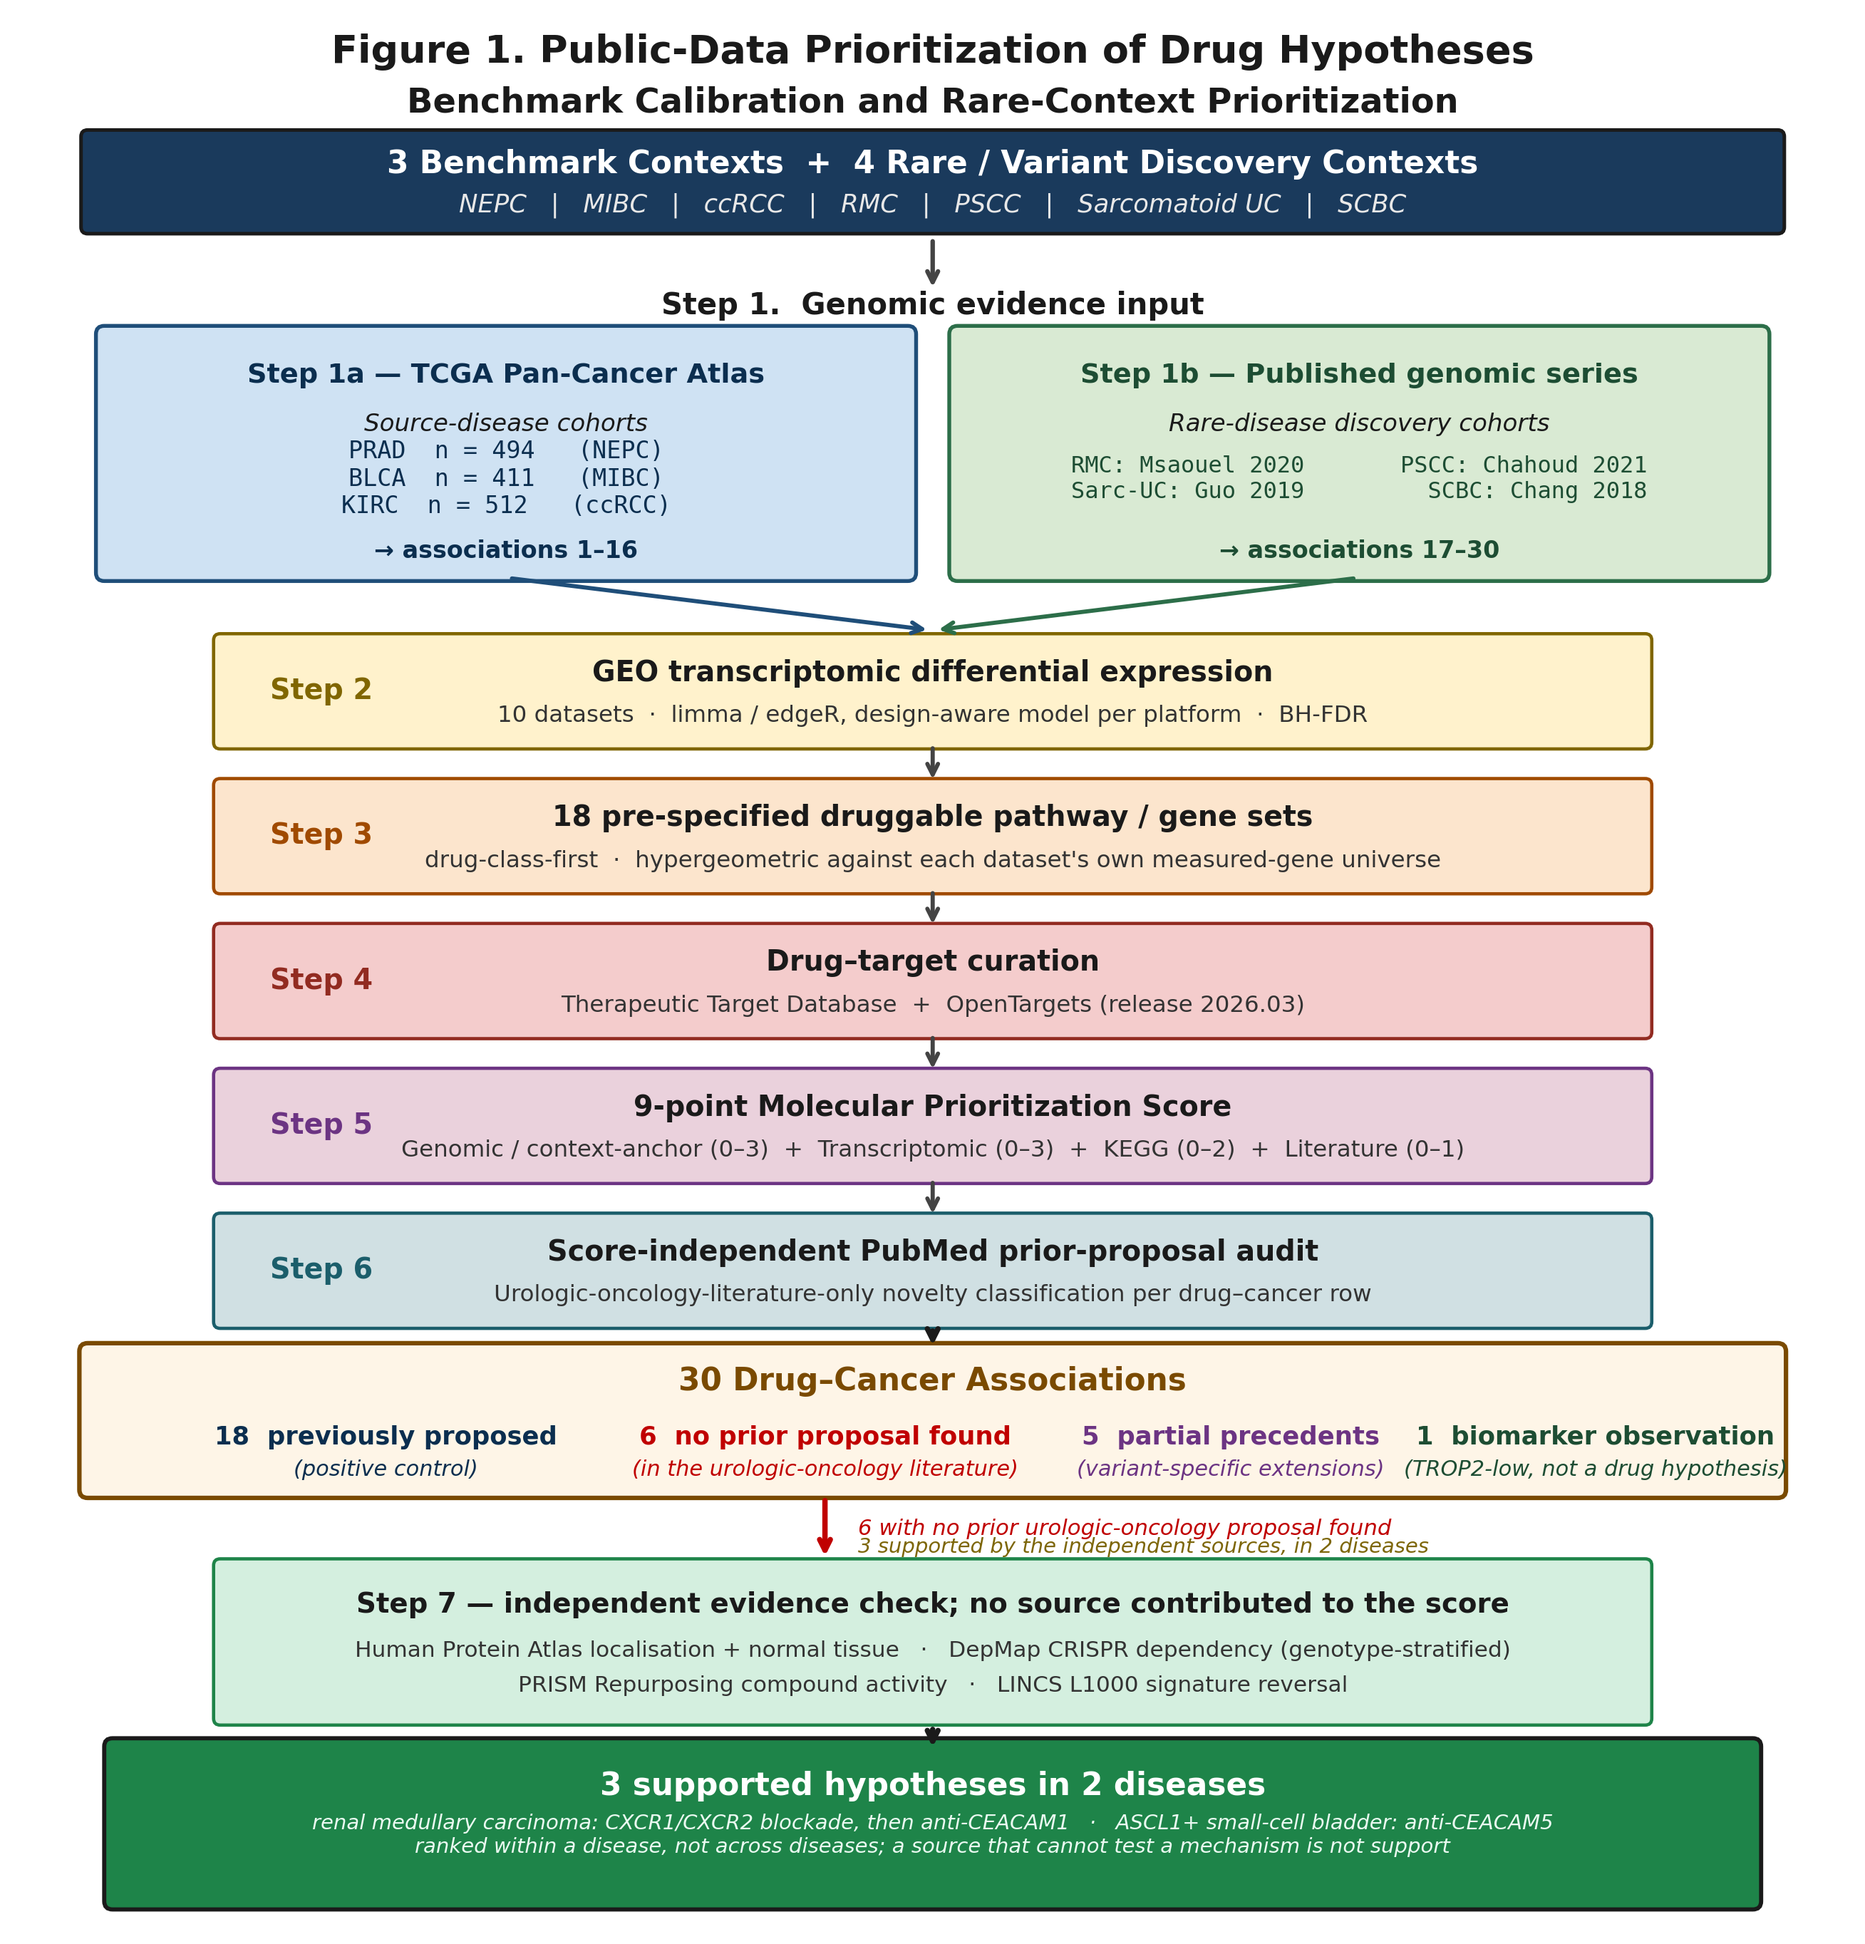
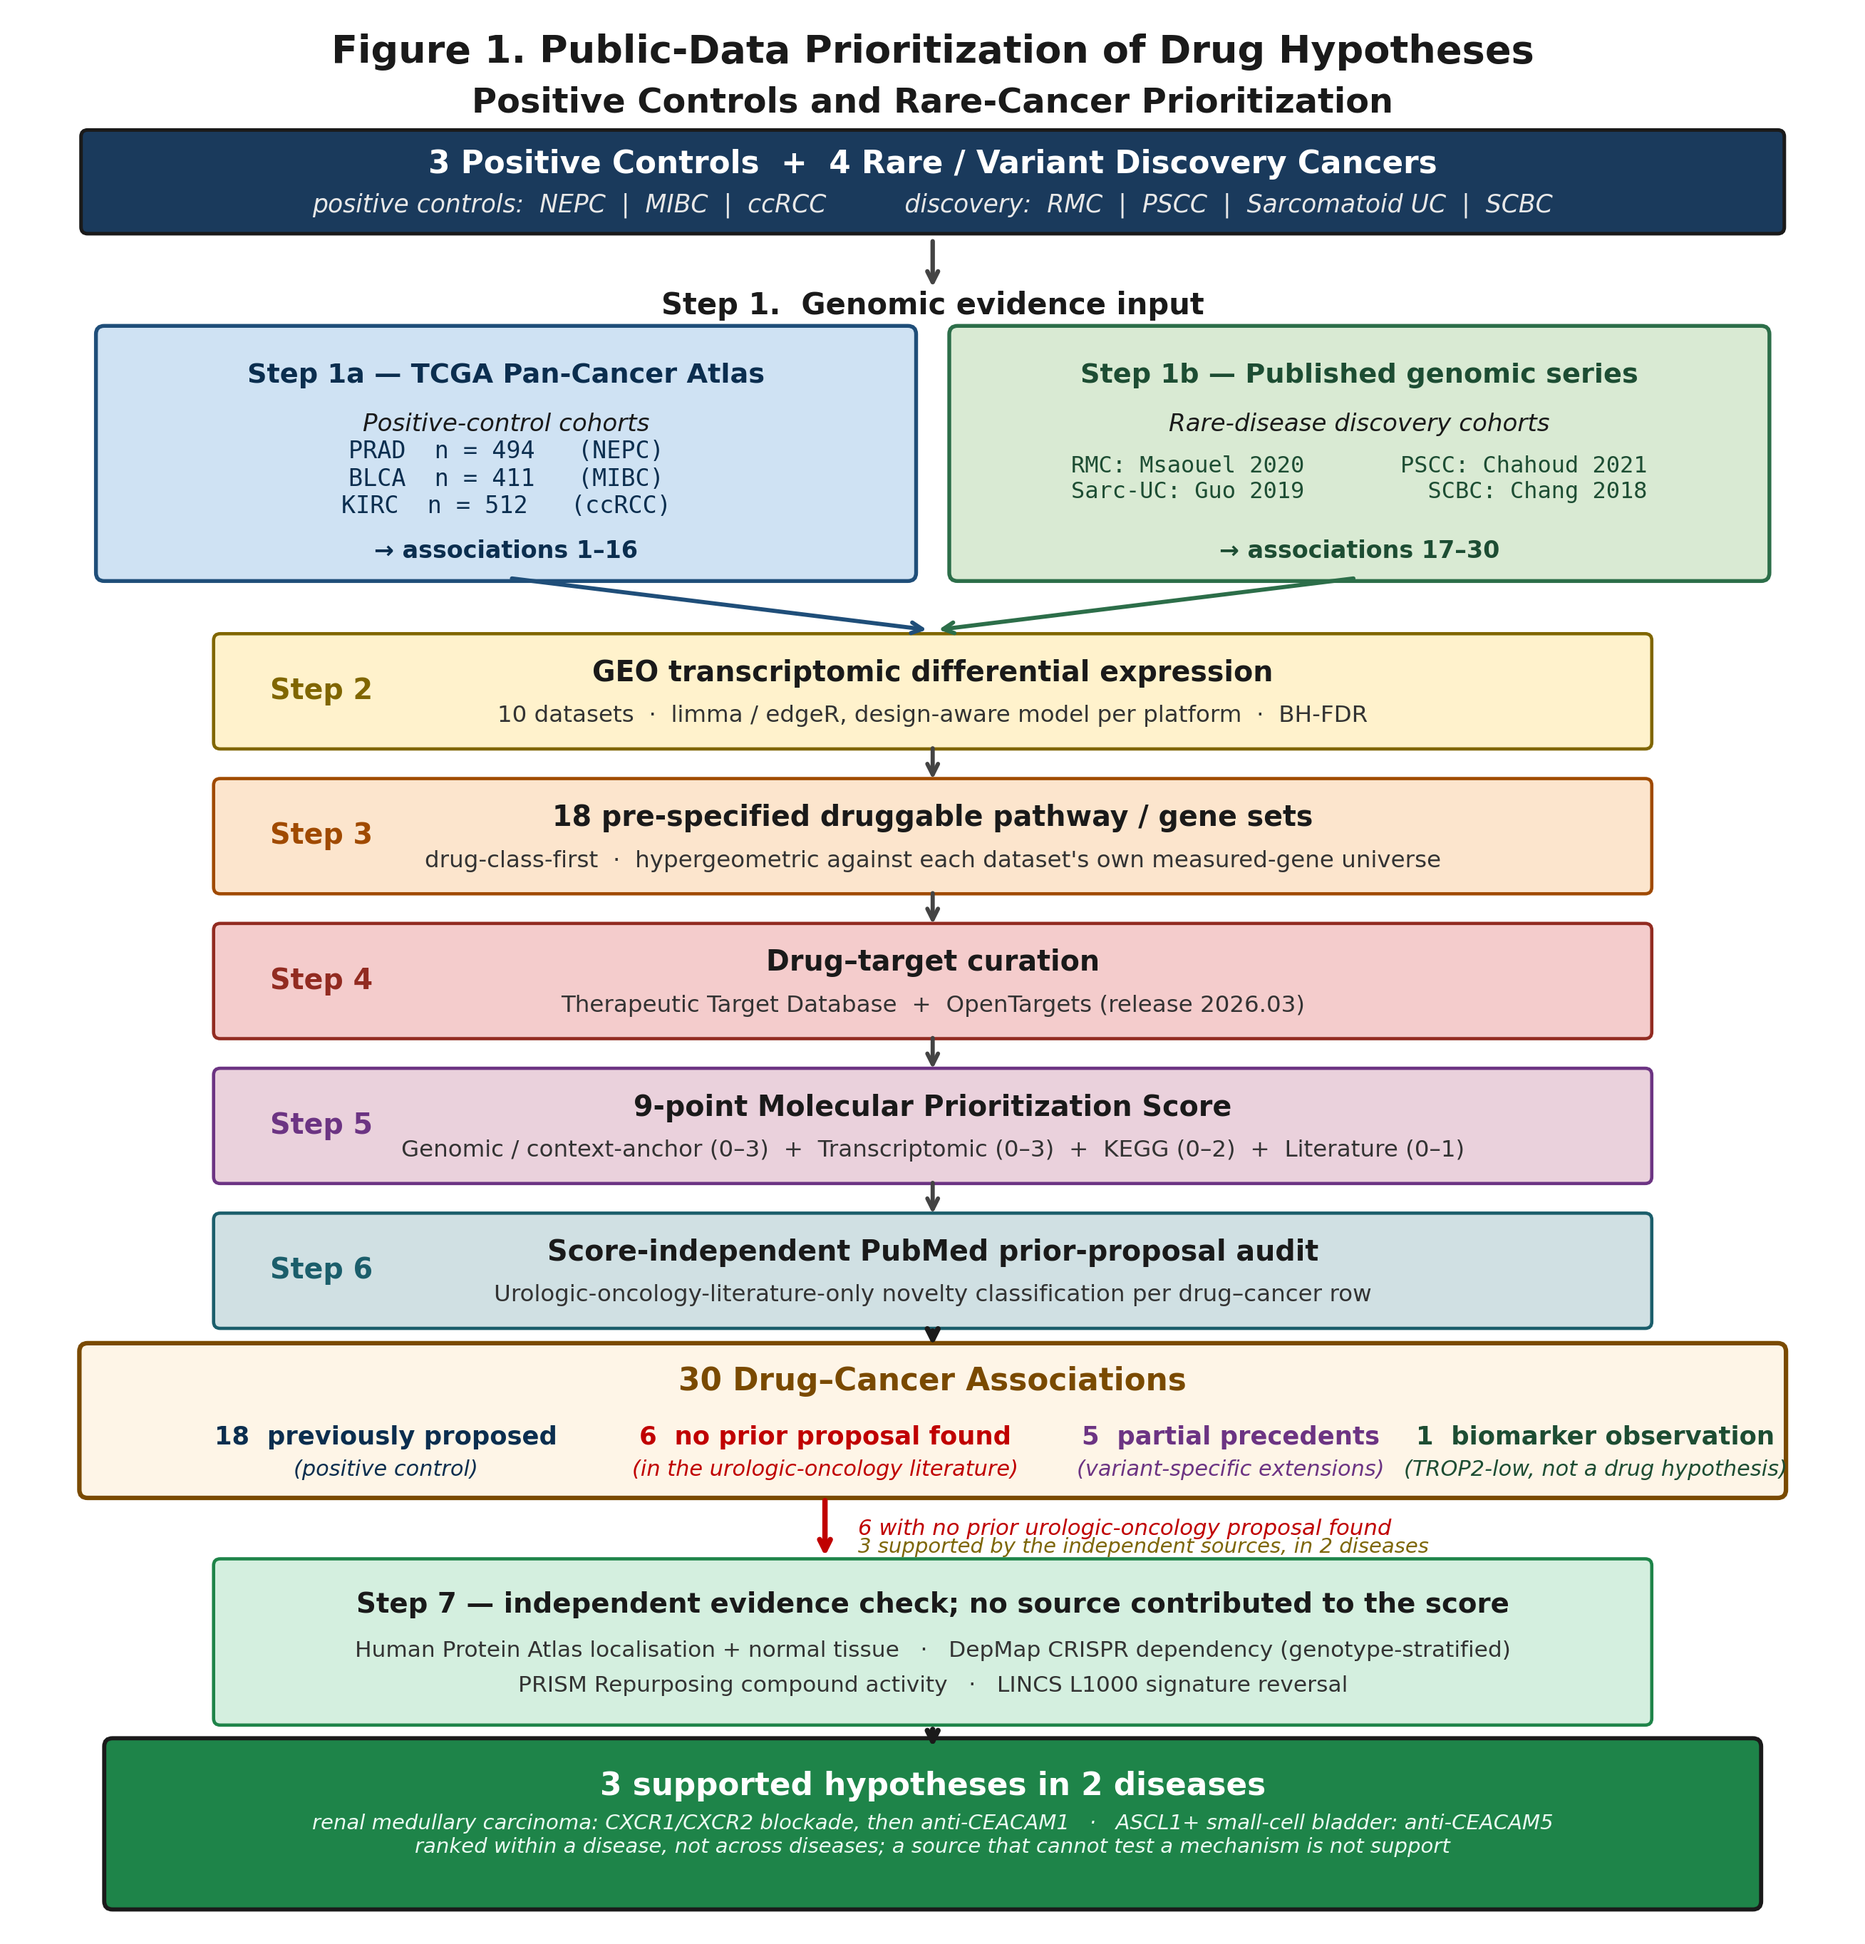
Name the positive controls wherever a reader looks for them
The paper said 'three better-studied cancers' and 'three benchmark contexts'
without ever naming which three were the positive controls in one place. Now:

- Introduction restores the positive-control paragraph and names them:
  neuroendocrine prostate cancer, muscle-invasive bladder cancer and clear cell
  renal cell carcinoma.
- Methods 2.2 splits the seven explicitly into the three controls and the four
  rare or variant cancers.
- Results 3.2 renamed 'The Positive Controls' and opens by naming them.
- Figure 1 labels the two groups in its header, and its subtitle and cohort
  label no longer say 'benchmark' and 'source-disease'.

Two audit checks: the controls must be named in the Introduction alongside the
phrase, and each must appear at least three times across the paper.

80/80.

Changed region(s): [[0.2167, 0.0312, 0.8047, 0.1246], [0.8047, 0.0935, 0.8357, 0.1246], [0.1857, 0.0935, 0.2167, 0.1246]]

diff --git a/code/pipeline/48_build_manuscript_v29.py b/code/pipeline/48_build_manuscript_v29.py
@@ -238,6 +238,12 @@ P('We therefore asked whether public molecular data could be interrogated '
   'engineered. And we wrote the shortlist rule before we applied it, so any '
   'candidate we drop can be traced to a specific criterion rather than to our '
   'opinion.')
+P('Three better-studied cancers are included deliberately as positive controls: '
+  'neuroendocrine prostate cancer, muscle-invasive bladder cancer and '
+  'clear cell renal cell carcinoma. Their treatment priorities are already '
+  'documented, so whether the pipeline returns those priorities tells us '
+  'how much weight to give its output in the four rare cancers, where '
+  'nothing is documented to check it against.')
 P(f"What is new here is not any single drug-cancer pair. "
   f"{F['n_previously_proposed']} of the {F['n_associations']} associations we "
   f"report were proposed by other groups first, and we say so in each case. "
@@ -279,7 +285,12 @@ P('The four rare-disease contexts are absent from The Cancer Genome Atlas, so '
   'transcriptomic nomination was not restricted to recurrently altered genes.')
 
 H('2.2 The pipeline', 11.5, 10, level=2)
-P('One pipeline was applied to all seven contexts (Figure 1). It takes a '
+P('One pipeline was applied to all seven cancers (Figure 1). Three are the positive '
+  'controls \u2014 neuroendocrine prostate cancer, muscle-invasive bladder '
+  'cancer and clear cell renal cell carcinoma \u2014 and four are the rare '
+  'or variant cancers the framework is asked to prioritize: renal medullary '
+  'carcinoma, penile squamous cell carcinoma, sarcomatoid urothelial '
+  'carcinoma and small-cell bladder cancer. The pipeline takes a '
   'genomic or context-anchor value; fits per-context differential expression '
   'across the ten transcriptomic series; tests enrichment across eighteen '
   'pre-specified druggable pathway or gene sets; maps differentially expressed '
@@ -381,9 +392,11 @@ P(f"The pipeline produced {F['n_associations']} drug-cancer associations "
   f"pairing has been proposed before, and the dataset and gene its "
   f"transcriptomic component rests on.")
 
-H('3.2 Benchmark Recovery', 11.5, 10, level=2)
-P(f"The three benchmark contexts contributed sixteen associations, and every "
-  f"one of them recovers a drug proposed independently by another group: six "
+H('3.2 The Positive Controls', 11.5, 10, level=2)
+P(f"The three positive controls \u2014 neuroendocrine prostate cancer, "
+  f"muscle-invasive bladder cancer and clear cell renal cell carcinoma "
+  f"\u2014 contributed sixteen associations, and every one of them recovers "
+  f"a drug proposed independently by another group: six "
   f"in neuroendocrine prostate cancer [10\u201318], seven in muscle-invasive "
   f"bladder cancer [19\u201327] and three in clear cell renal cell carcinoma "
   f"[28\u201332]. Two more previously proposed drugs appear in the rare "

diff --git a/code/pipeline/12_generate_figures.py b/code/pipeline/12_generate_figures.py
@@ -43,19 +43,19 @@ def generate_figure1():
     ax.text(5.5, 8.75,
             'Figure 1. Public-Data Prioritization of Drug Hypotheses',
             ha='center', fontsize=13, weight='bold', color='#1a1a1a')
-    ax.text(5.5, 8.45, 'Benchmark Calibration and Rare-Context Prioritization',
+    ax.text(5.5, 8.45, 'Positive Controls and Rare-Cancer Prioritization',
             ha='center', fontsize=11.5, weight='bold', color='#1a1a1a')
 
     ax.add_patch(FancyBboxPatch((0.4, 7.75), 10.2, 0.55,
                                  boxstyle='round,pad=0.04',
                                  ec='#1a1a1a', fc='#1a3a5c', linewidth=1.2))
-    ax.text(5.5, 8.13, '3 Benchmark Contexts  +  4 Rare / Variant Discovery Contexts',
+    ax.text(5.5, 8.13, '3 Positive Controls  +  4 Rare / Variant Discovery Cancers',
             ha='center', va='center', fontsize=10.5, weight='bold',
             color='white')
     ax.text(5.5, 7.88,
-            'NEPC   |   MIBC   |   ccRCC   |   RMC   |   PSCC   |   '
-            'Sarcomatoid UC   |   SCBC',
-            ha='center', va='center', fontsize=8.5, color='#e8e8e8',
+            'positive controls:  NEPC  |  MIBC  |  ccRCC          '
+            'discovery:  RMC  |  PSCC  |  Sarcomatoid UC  |  SCBC',
+            ha='center', va='center', fontsize=8.3, color='#e8e8e8',
             style='italic')
     ax.annotate('', xy=(5.5, 7.35), xytext=(5.5, 7.70),
                 arrowprops=dict(arrowstyle='->', lw=1.5, color='#444'))
@@ -69,7 +69,7 @@ def generate_figure1():
     ax.text(2.925, 6.85, 'Step 1a — TCGA Pan-Cancer Atlas',
             ha='center', va='center', fontsize=9.2, weight='bold',
             color='#0b2e4f')
-    ax.text(2.925, 6.55, 'Source-disease cohorts',
+    ax.text(2.925, 6.55, 'Positive-control cohorts',
             ha='center', va='center', fontsize=8.2, style='italic',
             color='#1a1a1a')
     ax.text(2.925, 6.22,

diff --git a/code/pipeline/49_audit_manuscript_v29.py b/code/pipeline/49_audit_manuscript_v29.py
@@ -89,6 +89,16 @@ check('Methods has a statistics section',
       any('statistical' in t.lower() for t in _subs), str(_subs))
 check('the retired E0 criterion is gone', 'E0' not in text)
 
+# a reader must be able to tell which three cancers are the positive controls
+_PC = ('neuroendocrine prostate cancer', 'muscle-invasive bladder cancer',
+       'clear cell renal cell carcinoma')
+_intro = text.split('MATERIALS AND METHODS', 1)[0]
+check('positive controls named in the Introduction',
+      'included deliberately as positive controls' in _intro
+      and all(c in _intro.lower() for c in _PC))
+check('positive controls named again in Methods and Results',
+      all(text.lower().count(c) >= 3 for c in _PC))
+
 print('\n3. NUMBERS MATCH THE DEPOSIT')
 check(f"association count {F['n_associations']}", str(F['n_associations']) in text)
 # only the three comparable tiers are quoted in the prose; rows with an
